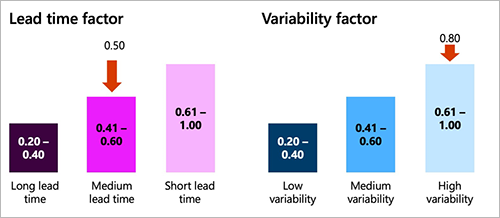
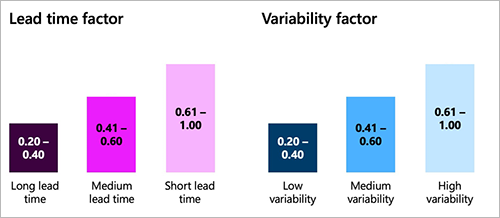
review, add images

Changed region(s): [[0.87, 0.1376, 0.93, 0.2752], [0.21, 0.2752, 0.24, 0.4128], [0.21, 0.1927, 0.27, 0.2477]]

diff --git a/articles/supply-chain/master-planning/planning-optimization/ddmrp-buffer-profile-and-levels.md b/articles/supply-chain/master-planning/planning-optimization/ddmrp-buffer-profile-and-levels.md
@@ -73,7 +73,7 @@ Past average daily usage (ADU) is calculated as an average by adding up the quan
 
 In previous illustration, if today is the morning of June 11th, the average daily usage for the previous 3 days (June 8th, 9th, and 10th) is 21.
 
-- **ADU (past)** = (29+11+23) ÷ 3 = 21
+- **ADU (past)** = (29 + 11 + 23) ÷ 3 = 21
 
 ### Average daily usage (forward)
 
@@ -97,81 +97,80 @@ In previous illustration, if today is the morning of June 11th, the blended aver
 
 <!-- KFM: We should probably show the weighting factors here. -->
 
-## Zone calculation factors
+## Buffer calculation factors
 
-For each item, you can define two factors to adjust how big the red and green zones should be to compensate for the expected lead time and supply variability.
+For each item, you can define two factors to adjust how big the red and green zones should be to compensate for the expected lead time and demand variability.
 
 ![Lead time and variability factors](media/ddmrp-zone-factors.png "Lead time and variability factors")
 
-The first factor is the lead time factor. The values range from 0 to 1 and the guidance is that the longer the lead time is, the lower the value should be. The following ranges presented here which are recommended by the Demand Driven Institute.
+The first factor is the *lead time factor*. The value is a decimal that ranges from 0 to 1. The longer the lead time is, the lower the value should be. The Demand Driven Institute recommends the following ranges:
 
-In our Pillow Example, we have a medium lead time and will use the value of 0.5 as our lead time factor.
+- Long lead time: 0.20 - 0.40
+- Medium lead time: 0.41 - 0.60
+- Short lead time: 0.61 - 1.00
 
-The second factor is the variability factor. The values once again range from 0 to 1 and the guidance for this is that products with a higher demand variability should have a higher value for this factor. On the picture you can see the recommended ranges for low, medium, and high variability.
+The second factor is the *variability factor*. The value is also a decimal that ranges from 0 to 1. The higher the demand variability is, the lower the value should be. The Demand Driven Institute recommends the following ranges:
 
-Our example product has a pretty high demand variability so we will set the variability factor at 0.8
+- Low variability: 0.20 - 0.40
+- Medium variability: 0.41 - 0.60
+- High variability: 0.61 - 1.00
 
-## Example of Buffer levels calculation
+## Buffer calculation examples
 
-We will start by calculating the yellow zone because it is the simplest. The equation for yellow is average daily usage times the decoupled lead time. In other terms, this amount is the expected consumption of inventory during the replenishment lead time for the item
+This example continues with the pillow production example provided in [Inventory positioning](ddmrp-inventory-positioning.md), where we selected decoupling points that reduced the lead time from 21 days to 5 days, as shown in the following illustration.
 
-Using the data we showed in our example, with an average daily usage of 23 eaches and a lead time of 5 days
+![Example of decoupled lead time](media/ddmrp-bom-decoupled-lead-time-example.png "Example of decoupled lead time")
 
-![Graphical user interface  text  application  email Description automatically generated](media/image12.png)
+For the pillow example, assume that the average daily usage has been calculated to 23 pieces and, as shown in the previous illustration, the decoupled lead time is 5 days. Using these values, you can calculate the yellow zone using the following equation:
 
-We multiple these together and we get a yellow zone of 115 eaches
+- **Yellow zone** = \[Average daily usage\] × \[Decoupled lead time\] = 115
 
-Next step is to calculate parameters for red zone – the red zone is made up of two parts – the red base and the red safety. The red base is average daily usage times decoupled lead time times the lead time factor. Then we have the red safety component which is the red base times the variability factor, allowing us to pad our red zone amount for items with a higher demand variability you'll notice that the red base equation is related to the yellow zone – the average daily usage times the decoupled lead time.
+![Example of yellow zone calculation](media/ddmrp-example-calc-yellow.png "Example of yellow zone calculation")
 
-Looking again at the example data for our pillow, we have the same data for yellow plus our lead time factor of 0.5 and our variability factor of 0.8
+The red zone calculation is similar to the yellow zone, but is padded for variability and lead time. For the pillow example, assume that you have observed a medium lead time (factor = 0.50) and high demand variability (factor = 0.8). Using these values, combined with the components from the yellow equation, you can calculate the red zone using the following equations:
 
-![Graphical user interface Description automatically generated with low confidence](media/image13.png)
+- **Red base** = \[Average daily usage\] × \[Decoupled lead time\] × \[Lead time factor\] = 57.5
+- **Red safety** = \[Red base\] × \[Variability factor\] = 46
+- **Red zone** = \[Red base\] + \[Red safety\] = 103.5
 
-Using this data, our red base will be 23 times 5 times 0.5 which comes out to 57.5 eaches. Then our red safety is that 57.5 for the red base times our variability factor of 0.8 and giving us 46 eaches. Then we will sum these two together to get the red zone value of 103.5 eaches, which will be rounded by the system to 104 units since we count in whole numbers for our eaches unit
+The system will round the red zone off to 104 pieces (ea) because pieces are counted in whole numbers.
 
-And finally, we will calculate the green zone, which is the max of these three calculations – the item's minimum order quantity, the average daily usage times the order cycle, or the average daily usage times decoupled lead time times the lead time factor.
+![Example of red zone calculation](media/ddmrp-example-calc-red.png "Example of red zone calculation")
 
-Once again, we have our equation also based on the yellow zone equation. If we look at our data for the pillow when we calculate this, we will assume there is no order cycle (which means we don't have any time constraints around how frequently we order), and we will use our minimum order quantity of 10 eaches.
+The green zone calculation also includes the yellow zone equation, but allows for minimum order size, order cycle, and lead time factor. Looking at the pillow example, assume there is no order cycle (which means you don't have any time constraints around how frequently you order), and the minimum order quantity is 10 pieces. The green zone is then calculated as the maximum result of the following three equations:
 
-- Our first option for green will be the minimum order quantity which is 10.
-- Our second option is the 23 eaches of the average daily usage times our order cycle which is zero, so this would result in zero eaches.
-- Our third option is to take the yellow zone times the lead time factor which will give us a value of 57.5 eaches
+- \[Minimum order quantity\] = 10
+- \[Average daily usage\] × \[Order cycle\] = 0
+- \[Average daily usage\] × \[Decoupled lead time\] × \[Lead time factor\] = 57.5
 
-![Graphical user interface  text  application Description automatically generated](media/image14.png)
+Once again, the system will round the green zone off to 58 pieces (ea) because pieces are counted in whole numbers.
 
-That is the highest value of the three, so our green zone will be set at 58 eaches since we will round, as we mentioned before.
+![Example of red green calculation](media/ddmrp-example-calc-green.png "Example of green zone calculation")
 
-So to summarize, taking the zone calculations we completed, our red zone is 104 eaches and our minimum is also 104. Our yellow zone is 115 eaches which gives us a reorder point on 219, and our green zone is 58 eaches which gives us a maximum quantity of 277 eaches.
+The following illustration summarizes these zone calculation results using the funnel graphic often used in DDMRP.
 
-![Chart  funnel chart Description automatically generated](media/image15.png)
+![Summary of zone calculation results](media/ddmrp-example-calc-summary.png "Summary of zone calculation results")
 
-## How should we do that in DYNAMICS?
+## Implement buffers in Supply Chain Management
 
-As a precondition step you need to set up decoupling points as described above.
+This section describes how to implement your buffer zone strategy in Supply Chain Management.
 
-After setting up the decoupling point you can see (19:30)
+### Set up buffer values for a decoupling point
 
-Set up buffer values for a decoupling point
+Use the following procedure to set up buffer values for a decoupling point:
 
 1. Go to **Product information management \> Products \> Released products**
-
 1. Select a released item that you want to set up
-
 1. Click the **Plan** tab
-
 1. Click **Item coverage** under **Coverage** button group
-
 1. Select a record for decoupling point
-
 1. Click the **General** tab
-
 1. Set **Buffer values over time** = *Checked*
-
 1. The confirmation page opens.
+1. Click **Yes**, as a result the system will disable **Minimum**, **Reorder point** and **Maximum** fields and will begin calculating these values automatically. The result of this calculations you can see on the **Buffer values** tab
 
-1. Click **Yes**, as a result the system will disable **Minimum**, **Reorder** **point** and **Maximum** fields and will begin calculating these values automatically. The result of this calculations you can see on the **Buffer values** tab
-
-Note: If you set **Buffer values over time** = *Unchecked*, you can set values for the**Minimum**, **Reorder** **point** and **Maximum** fields manually.
+> [!NOTE]
+> If you set **Buffer values over time** = *Unchecked*, you can set values for the **Minimum**, **Reorder point** and **Maximum** fields manually.
 
 Work with the **Buffer values**
 
